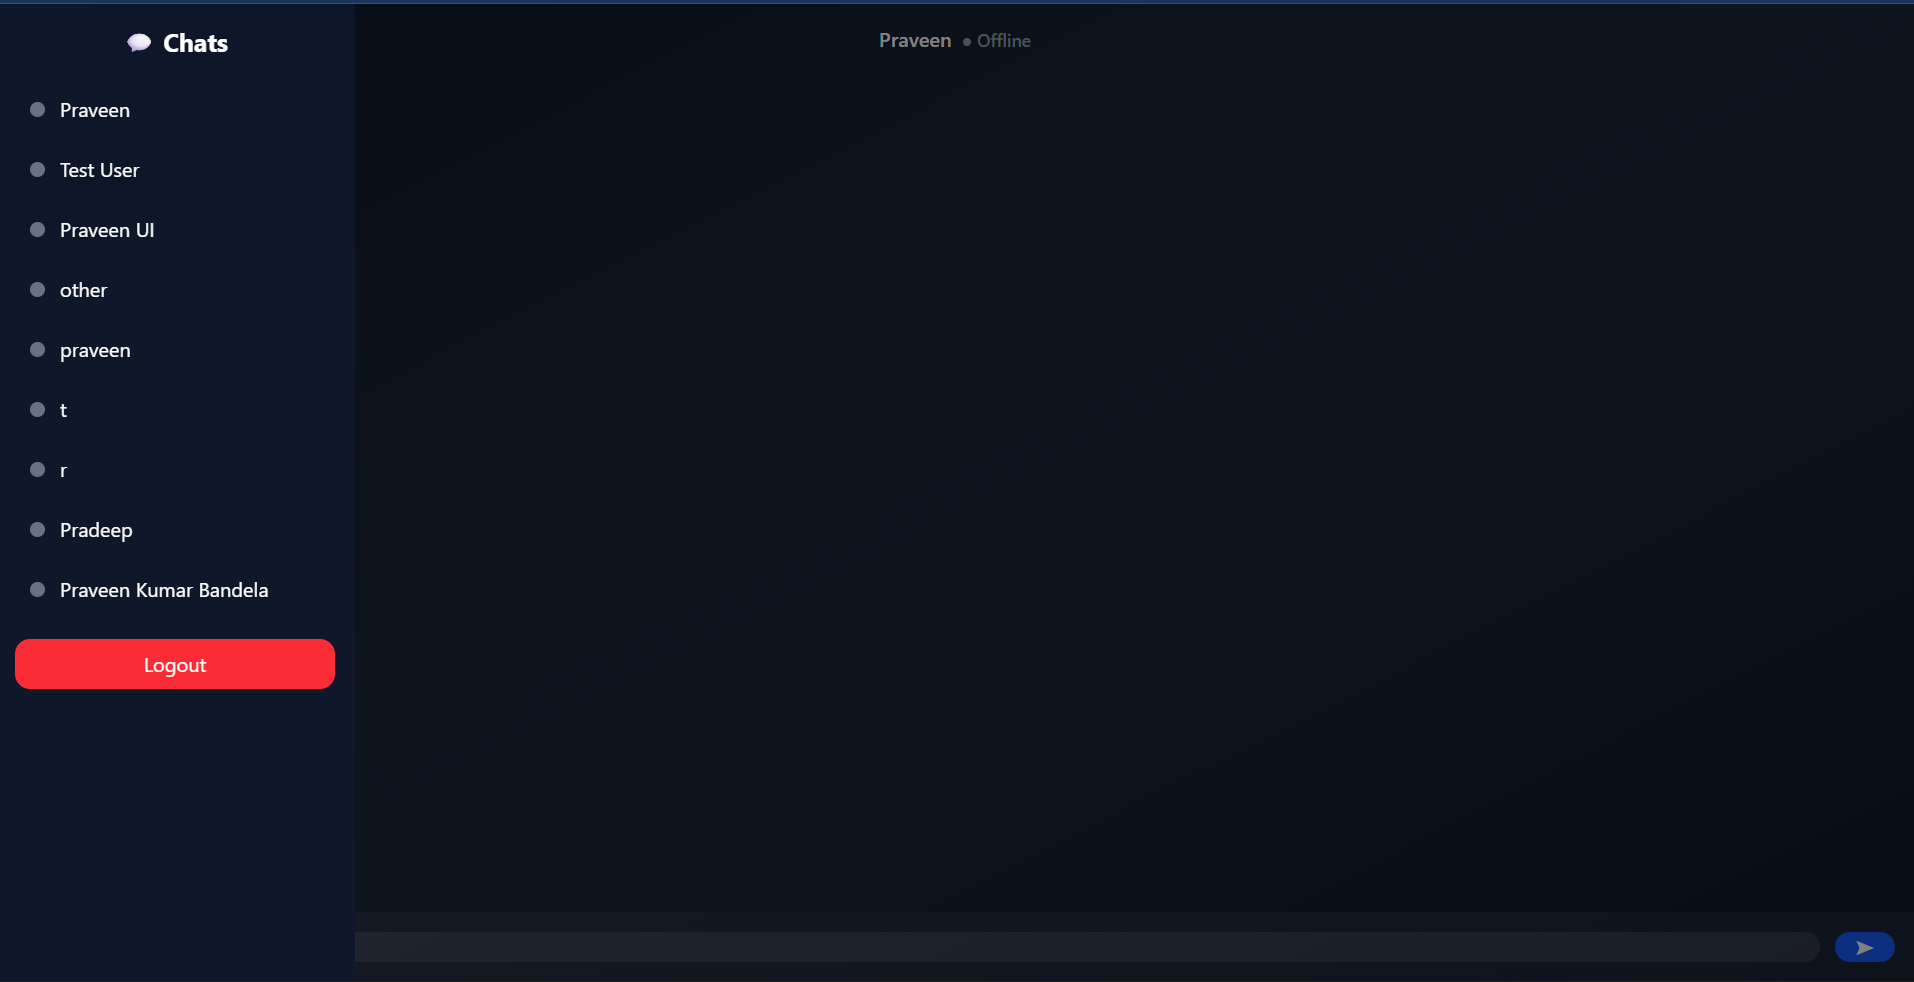
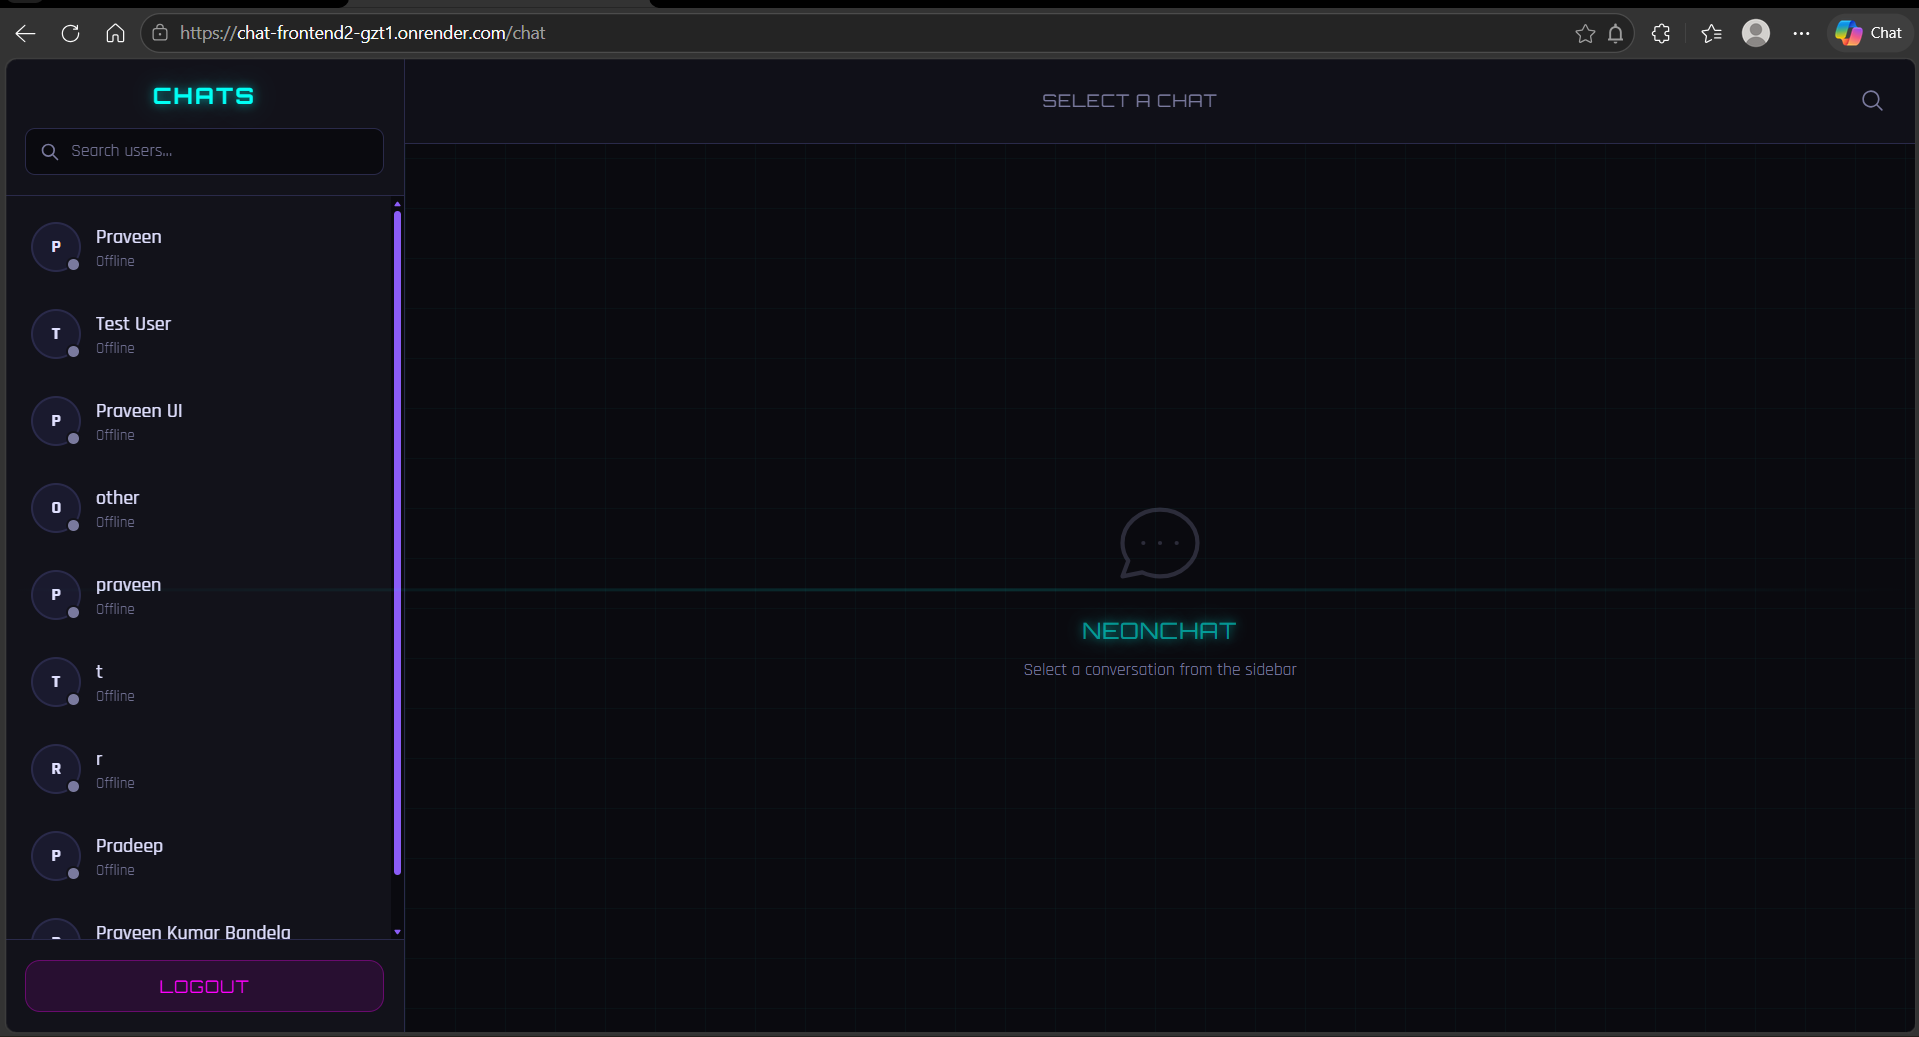
updated chat app's data

diff --git a/src/pages/Projects.jsx b/src/pages/Projects.jsx
@@ -25,7 +25,7 @@ const projects = [
     description: 'A real-time chat application built with a modern tech stack.',
     technologies: ['React', 'Node.js', 'Material-UI', 'MongoDB'],
     github: 'https://github.com/PraVeenxJSX/CHAT-APP',
-    live: 'https://blog-frontend-five-weld.vercel.app/',
+    live: 'https://chat-frontend2-gzt1.onrender.com/',
     image: '/Chat.png',
   },
   {
